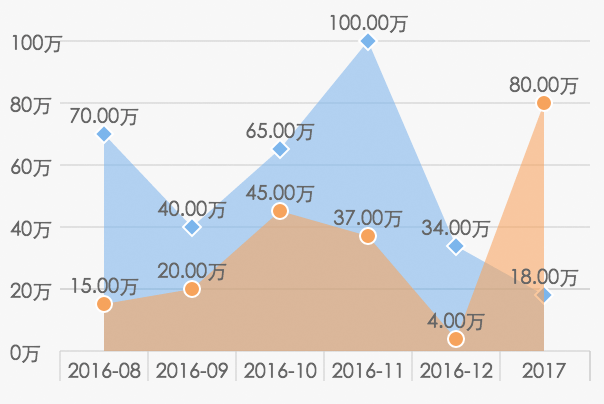
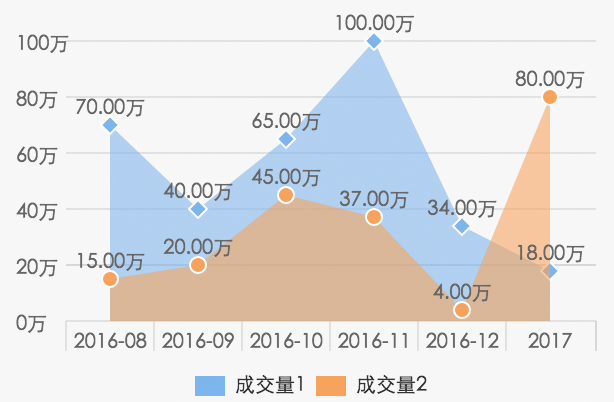
add legend

diff --git a/src/charts.js b/src/charts.js
@@ -9,10 +9,12 @@
 
 var Charts = function(opts) {
     this.opts = opts;
+    opts.legend = opts.legend === false ? false : true;
     this.config = {
         yAxisWidth: 50,
         yAxisSplit: 5,
         xAxisHeight: 30,
+        legendHeight: opts.legend ? 30 : 0,
         padding: 30,
         columePadding: 20,
         fontSize: 20,
@@ -43,6 +45,7 @@ var Charts = function(opts) {
             this.drawPieDataPoints(this.opts.series);
             break;
     }
+    this.drawLegend(this.opts.series);
     this.draw();
 }
 
@@ -92,17 +95,49 @@ Charts.prototype.mesureText = function(text) {
 Charts.prototype.getDataPoints = function(data, minRange, maxRange, xAxisPoints, eachSpacing) {
     var me = this;
     var points = [];
-    var validHeight = this.opts.height - 2 * this.config.padding - this.config.xAxisHeight;
+    var validHeight = this.opts.height - 2 * this.config.padding - this.config.xAxisHeight - this.config.legendHeight;
     data.forEach(function(item, index) {
         var point = {};
         point.x = xAxisPoints[index] + Math.round(eachSpacing / 2);
         var height = validHeight * (item - minRange) / (maxRange - minRange);
-        point.y = me.opts.height - me.config.xAxisHeight - Math.round(height) - me.config.padding;
+        point.y = me.opts.height - me.config.xAxisHeight - me.config.legendHeight - Math.round(height) - me.config.padding;
 
         points.push(point);
     });
 
     return points;
+}
+Charts.prototype.drawLegend= function(series) {
+    if (!this.opts.legend) {
+        return;
+    }
+    var me = this;
+    var context = this.context;
+    var padding = 10;
+    var width = 0;
+    series.forEach(function (item) {
+        item.name = item.name || 'undefined';
+        width += 2 * padding + me.mesureText(item.name) + 30;
+    });
+    var startX = (this.opts.width - width) / 2 + padding;
+    var startY = this.opts.height - this.config.legendHeight - 5;
+    
+    context.setFontSize(me.config.fontSize);
+    series.forEach(function (item) {
+        context.moveTo(startX, startY);
+        context.beginPath();
+        context.setFillStyle(item.color);
+        context.rect(startX, startY, 30, 20);
+        context.closePath();
+        context.fill();
+        startX += padding + 30;
+        context.beginPath();
+        context.setFillStyle('#333333');
+        context.fillText(item.name, startX, startY + 16);
+        context.closePath();
+        context.stroke();
+        startX += me.mesureText(item.name) + padding; 
+    });
 }
 Charts.prototype.drawPointText = function(points, series) {
     // 绘制数据文案
@@ -194,9 +229,9 @@ Charts.prototype.drawPieDataPoints = function(series) {
     series = this.getPieDataPoints(series);
     var centerPosition = {
         x: this.opts.width / 2,
-        y: this.opts.height / 2
+        y: (this.opts.height - 2 * this.config.padding - this.config.legendHeight) / 2 
     }
-    var radius = Math.min(centerPosition.x, centerPosition.y);
+    var radius = Math.min(centerPosition.x - this.config.padding, centerPosition.y);
     context.setStrokeStyle('#ffffff');
     context.setLineWidth(2)
     series.forEach(function(eachSeries) {
@@ -229,7 +264,7 @@ Charts.prototype.drawAreaDataPoints = function(series) {
     var data = series[0].data;
     var spacingValid = this.opts.width - 2 * this.config.padding - this.config.yAxisWidth;
     var eachSpacing = Math.floor(spacingValid / data.length);
-    var endY = this.opts.height - this.config.padding - this.config.xAxisHeight;
+    var endY = this.opts.height - this.config.padding - this.config.xAxisHeight - this.config.legendHeight;
 
     series.forEach(function(eachSeries, seriesIndex) {
         var data = eachSeries.data;
@@ -282,7 +317,7 @@ Charts.prototype.drawColumnDataPoints = function(series) {
         context.setFillStyle(eachSeries.color);
         points.forEach(function(item, index) {
             var startX = item.x - item.width / 2 + 1;
-            var height = me.opts.height - item.y - me.config.padding - me.config.xAxisHeight;
+            var height = me.opts.height - item.y - me.config.padding - me.config.xAxisHeight - me.config.legendHeight;
             context.moveTo(startX, item.y);
             context.rect(startX, item.y, item.width - 2, height);
         });
@@ -352,12 +387,12 @@ Charts.prototype.drawYAxis = function(series) {
         return (a.data ? a.data : a).concat(b.data);
     }, []);
 
-    var spacingValid = this.opts.height - 2 * this.config.padding - this.config.xAxisHeight;
+    var spacingValid = this.opts.height - 2 * this.config.padding - this.config.xAxisHeight - this.config.legendHeight;
     var eachSpacing = Math.floor(spacingValid / this.config.yAxisSplit);
     var startX = this.config.padding + this.config.yAxisWidth;
     var endX = this.opts.width - this.config.padding;
     var startY = this.config.padding;
-    var endY = this.opts.height - this.config.padding - this.config.xAxisHeight;
+    var endY = this.opts.height - this.config.padding - this.config.xAxisHeight - this.config.legendHeight;
 
     var points = [];
     var ranges = this.getYAxisTextList(data);
@@ -395,8 +430,8 @@ Charts.prototype.drawXAxis = function(categories) {
     var points = [];
     var startX = this.config.padding + this.config.yAxisWidth;
     var endX = this.opts.width - this.config.padding;
-    var startY = this.opts.height - this.config.padding - this.config.xAxisHeight;
-    var endY = this.opts.height - this.config.padding;
+    var startY = this.opts.height - this.config.padding - this.config.xAxisHeight - this.config.legendHeight;
+    var endY = this.opts.height - this.config.padding - this.config.legendHeight;
     categories.forEach(function(item, index) {
         points.push(startX + index * eachSpacing);
     });
